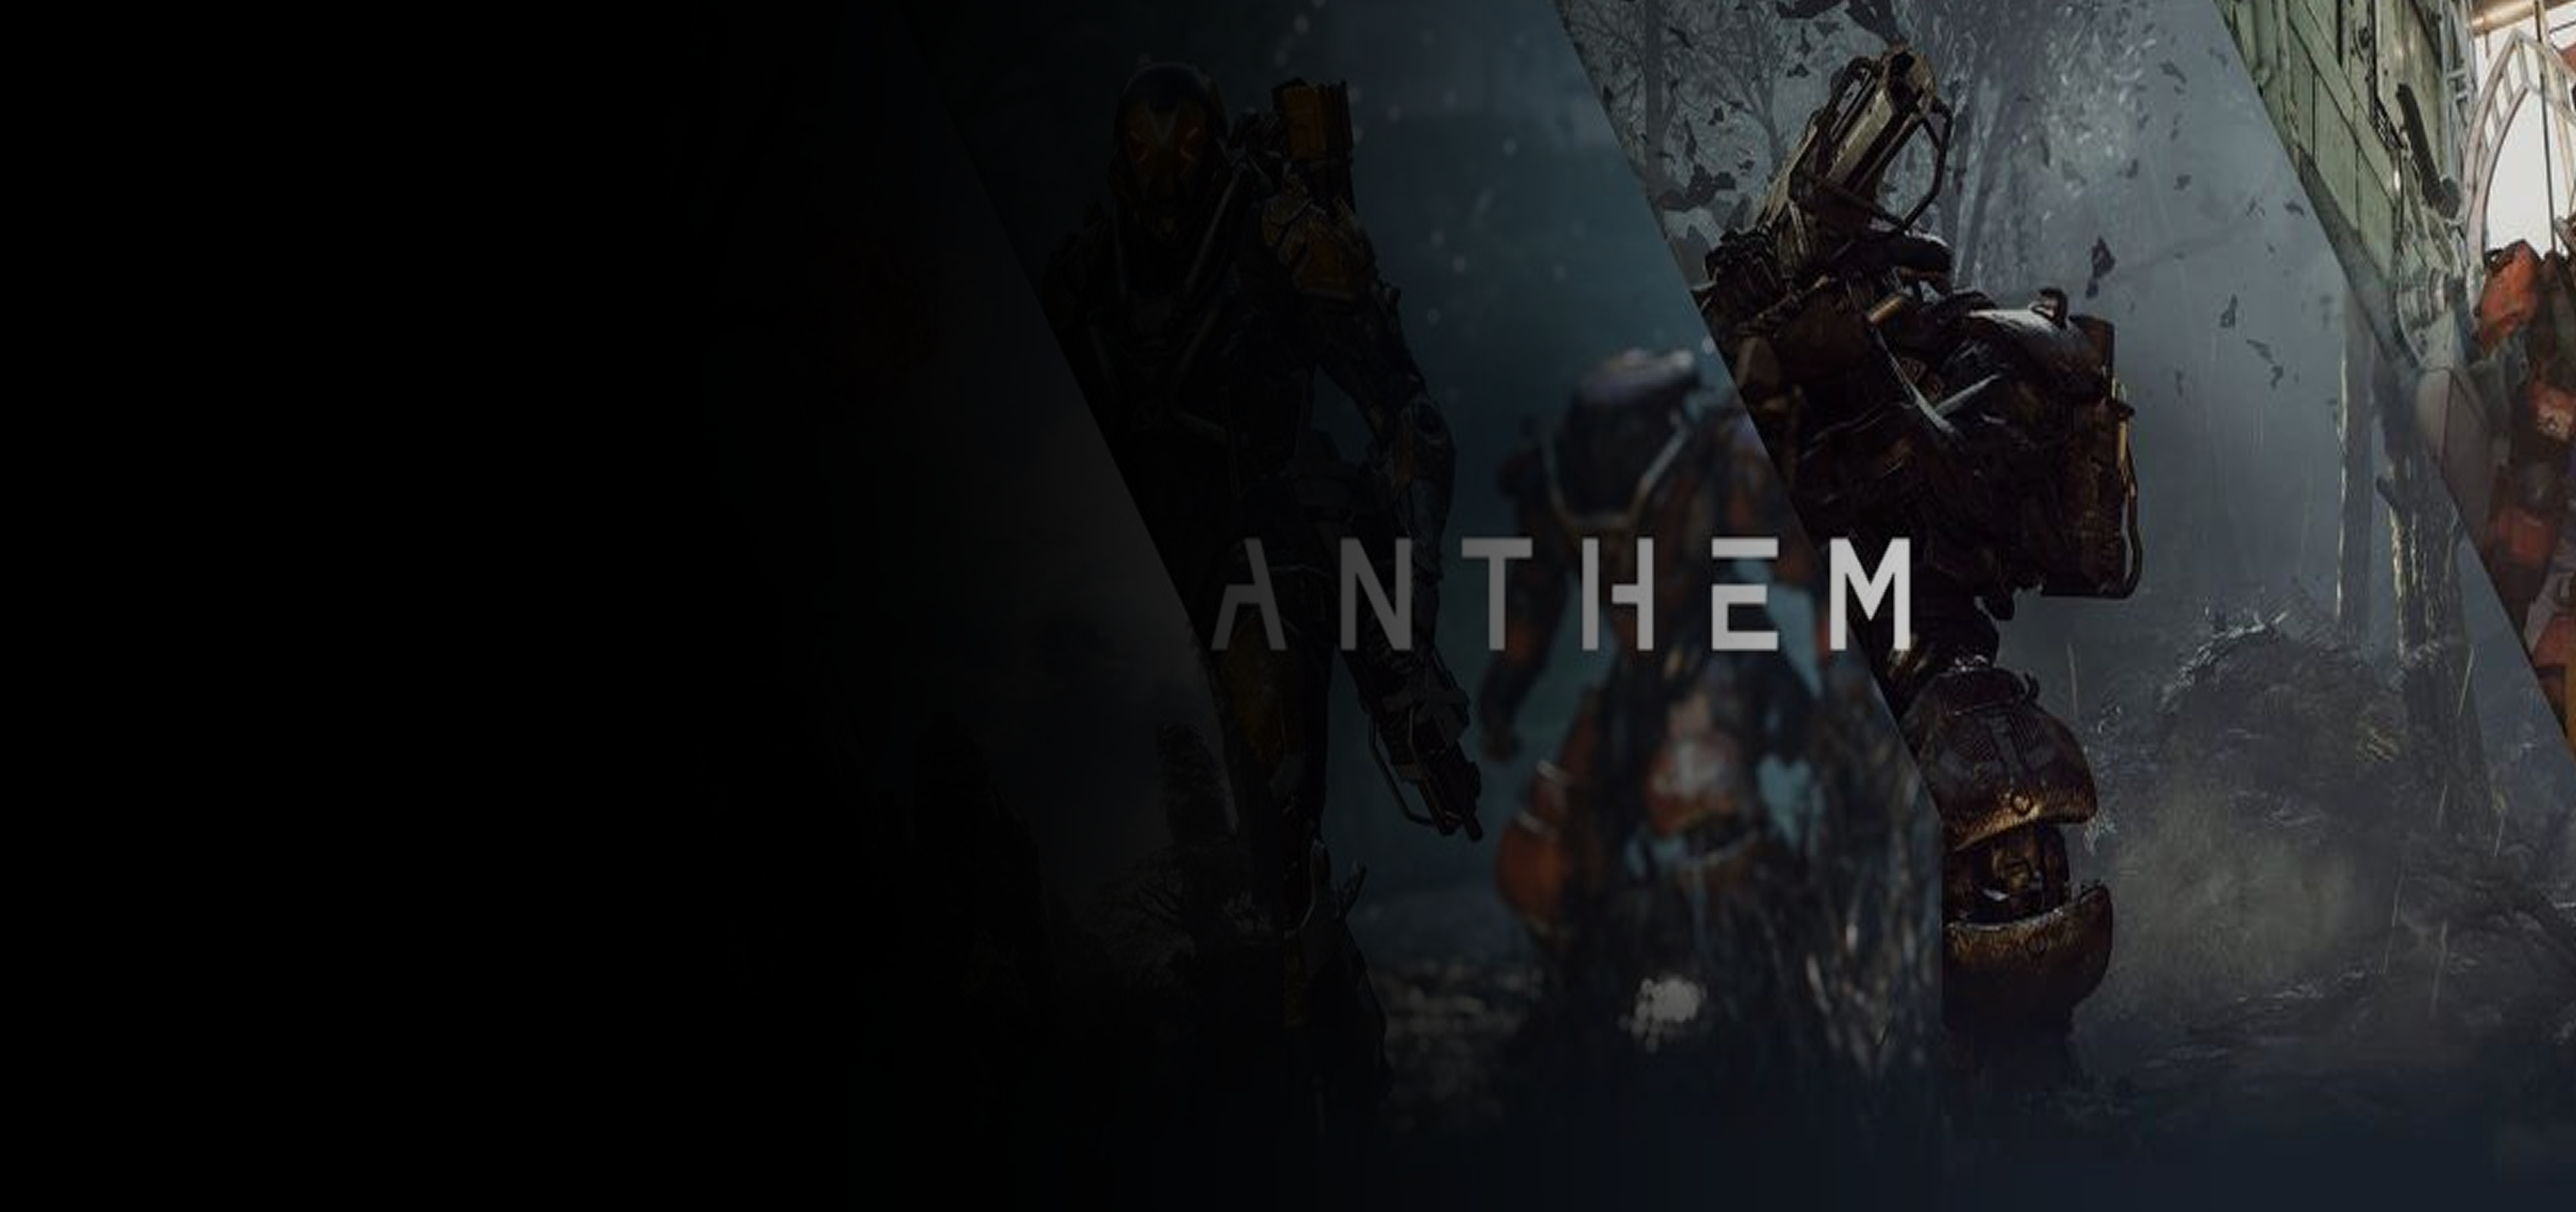
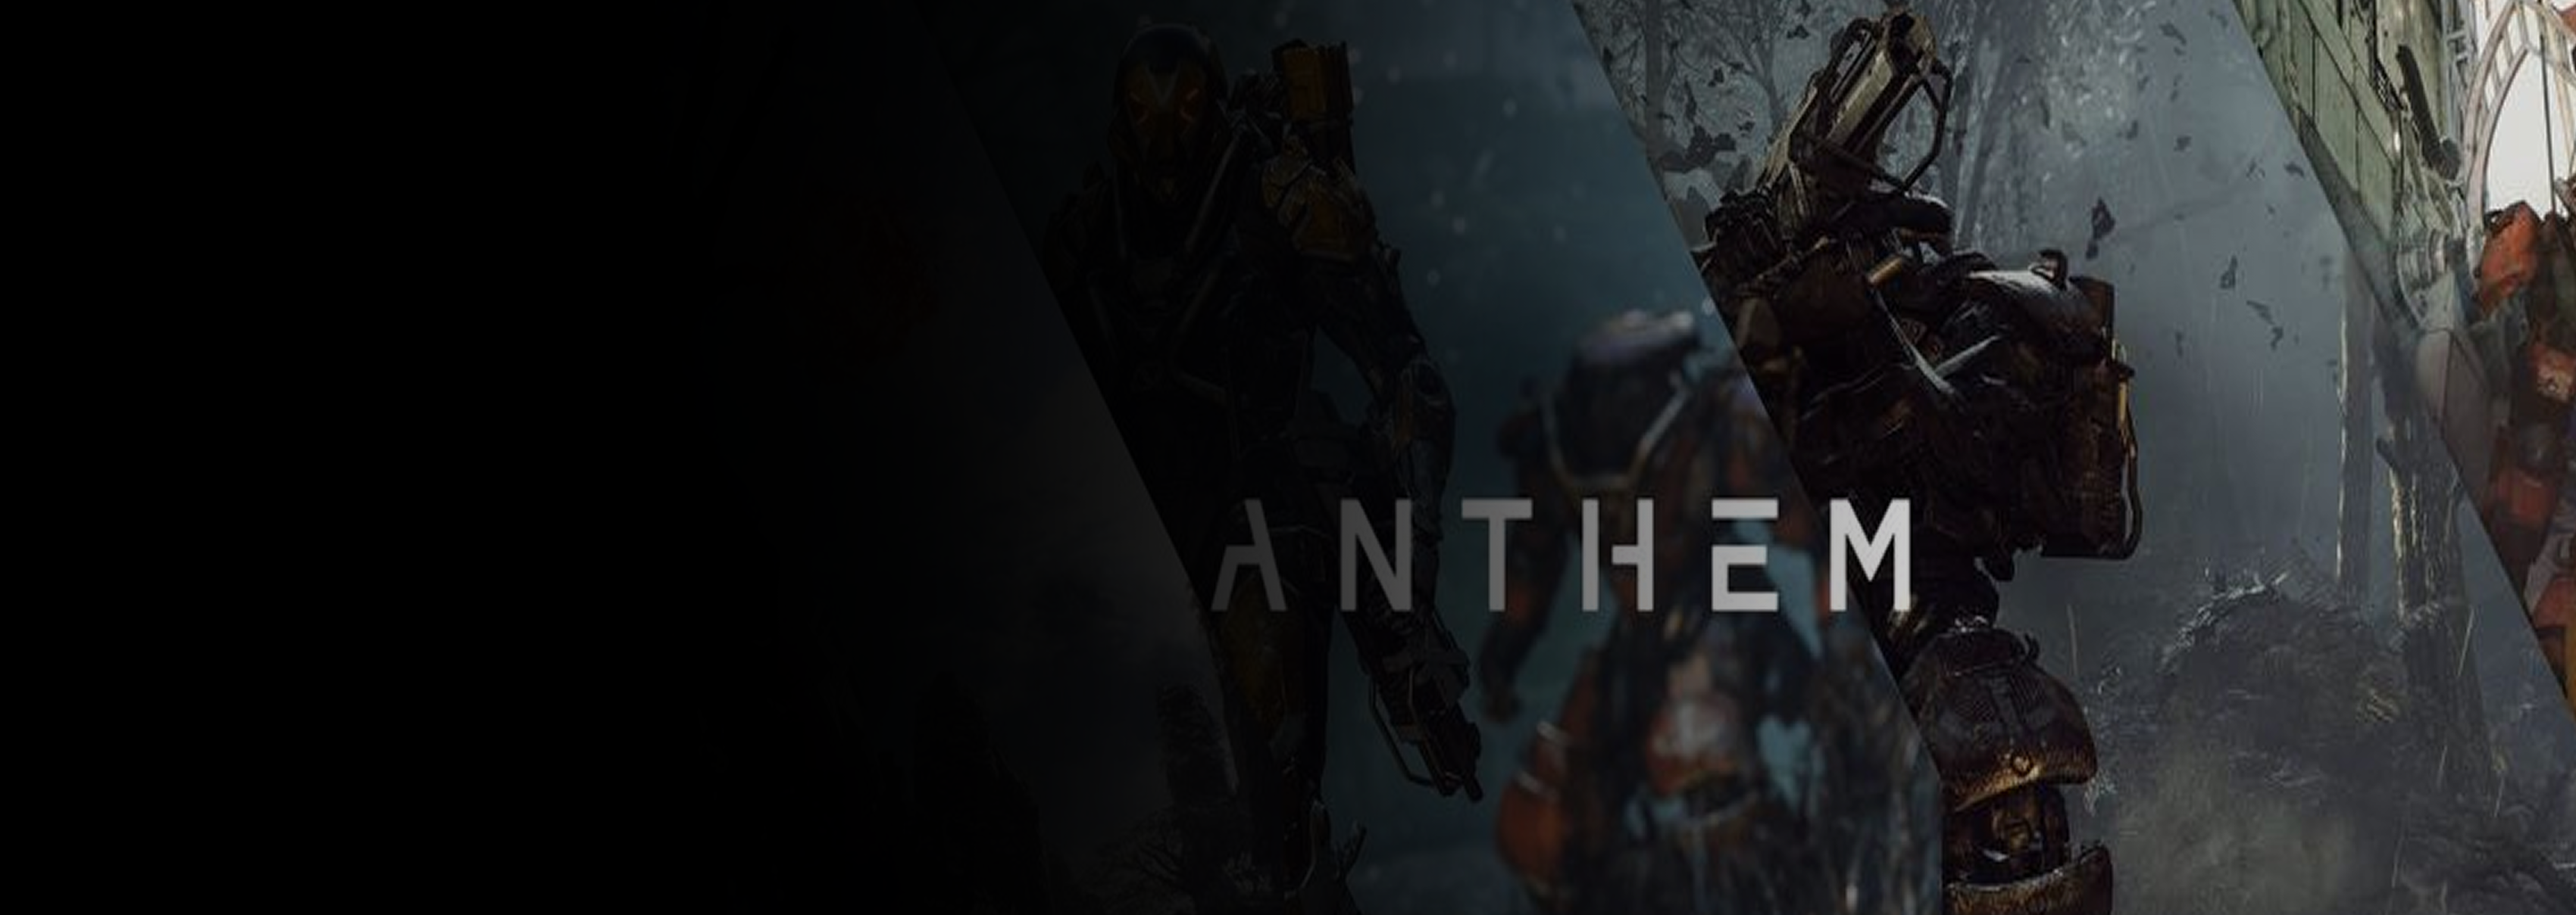
Fixed bugs and added styling

Changed region(s): [[0.4676, 0.0, 1.0, 1.0], [0.5924, 0.0, 0.6235, 0.0306]]

diff --git a/src/components/Review.vue b/src/components/Review.vue
@@ -1,7 +1,7 @@
 <template>
     <div id="personal">
 
-        <h3 class='subtitle'>Games you're watching</h3>
+        <h3 id="a" class='subtitle'>Games you're watching</h3>
         <div id='wishlist'>
             <div class="games" v-for="game in watchList" :key="game">
                 <a :id="game.id">
@@ -10,7 +10,7 @@
             </div>
         </div>
 
-            <h3 class="subtitle"> Games you own</h3>
+            <h3 id="b" class="subtitle"> Games you own</h3>
         <div id='owned'>
             <div class="games" v-for="game in owned" :key="game">
                 <a :id="game.id" @click="isComponentModalActive = true, c_id = game.id">
@@ -19,10 +19,10 @@
             </div>
         </div>
 
-        <h3 class="subtitle">Your Reviews</h3>
+        <h3 id="c" class="subtitle">Your Reviews</h3>
         <div class="reviews"  :v-if="revLen > 0">
             <div>
-                <p>You haven't written a review yet! Play a game you own and tell the world your opinion!</p>
+                <p class="text">You haven't written a review yet! Play a game you own and tell the world your opinion!</p>
             </div>
         </div>
 
@@ -141,6 +141,9 @@ export default {
 </script>
 
 <style>
+  body{
+        background-color: #15434D;
+    }
     #personal{
          height: 100vh;
     overflow-x: scroll;
@@ -155,5 +158,8 @@ export default {
         width: 200px;
         height: 300px;
         margin: auto;
+    }
+    .text, #a, #b, #c{
+    color:#B39C8E;
     }
 </style>

diff --git a/src/components/Api_content.vue b/src/components/Api_content.vue
@@ -7,10 +7,10 @@
         </div>
         <div id="content-contain">
             <div class='sorter'>
-                <h2 class="subtitle">Sort</h2>
+                <h2 id="a" class="subtitle">Sort</h2>
                 <ul>
-                    <li>Release Date</li>
-                    <li>Alphabetical - A to Z</li>
+                    <li class ="text">Release Date</li>
+                    <li class=text>Alphabetical - A to Z</li>
                 </ul>
             </div>
             <div class='products'>
@@ -59,18 +59,23 @@ export default {
 }
 </script>
 <style>
+    body{
+        background-color: #15434D;
+    }
     #games{
         width: 95%;
         margin: 15px auto;
         height: 100vh;
         overflow-x: scroll;
+        background-color: #15434D;
     }
     #banner{
         background-image: url("../assets/bn.png");
         background-size: cover;
+        background-position: 60% 50%;
         width: 100%;
         background-color: black;
-        height: 35%;
+        height: 45%;
         text-align: left;
         padding: 10px;
     }
@@ -87,6 +92,9 @@ export default {
     }
     .display {
         flex: 0 49%;
+    }
+    .text, #a{
+    color:#B39C8E;
     }
 
 

diff --git a/src/views/Signup.vue b/src/views/Signup.vue
@@ -97,3 +97,15 @@ export default {
 }
 }
 </script>
+
+<style>
+    body{
+        background-color: #15434D;
+    }
+    .Signup {
+    margin: auto;
+}
+.label{
+    color:#B39C8E;
+}
+</style>

diff --git a/src/views/Login.vue b/src/views/Login.vue
@@ -73,7 +73,13 @@ export default {
 </script>
 
 <style>
+body{
+        background-color: #15434D;
+}
 .Login {
     margin: auto;
+}
+.label{
+    color:#B39C8E;
 }
 </style>

diff --git a/src/App.vue b/src/App.vue
@@ -68,7 +68,6 @@ export default {
   font-weight: bold;
   color: #2c3e50;
 }
-
 #nav a.router-link-exact-active {
   color: #42b983;
 }

diff --git a/readme.md b/readme.md
@@ -18,9 +18,10 @@ Recreation is a gaming Ecommerce site that takes inspiration from pre-existing s
 | CRUD on Reviews| H | 3hr | 4hr 30min | -hr|
 | Login,logout, and Register | H | 2hr | 30min | -hr|
 | Put/Patch request on many to many fields | H | 2hr | 7hr | -hr|
-| Styling | H | 3hr | 3hr | -hr|
+| Styling | H | 3hr | 4hr | -hr|
 | Mobile view | H | 1hr | 2hr | -hr|
-| Total | H | 16hrs| 20hrs | -hrs |
+| Deployment + debug| H | 4hr | 7hr | -hr|
+| Total | H | 20hrs| 28rs | -hrs |
 
 #### PostMVP
 | Component | Priority | Estimated Time | Time Invested | Actual Time |
@@ -44,6 +45,12 @@ The repository for the frontend of your application should include:
 - Your API Backend must be deployed to Heroku and your front-end must be deployed to
   Netlify. Applications that are not deployed will be considered incomplete.
  
-#### Additional libraries
+#### Issues and Resolutions
+Cors: was blocked by CORS policy: NO 'Acess-Control-Allow-Origin' header is present on the requested resource. If an oopaque response serves your needs, set the request's mode to 'no-cors' to fetch the resource with CORS disabled
+Solution: Capitalizing the Patch in my patch request
+```
+fetch(`${this.$URL}/auth/many/${this.user.id}/`, {
+    method: "PATCH",
+```
 
 --
